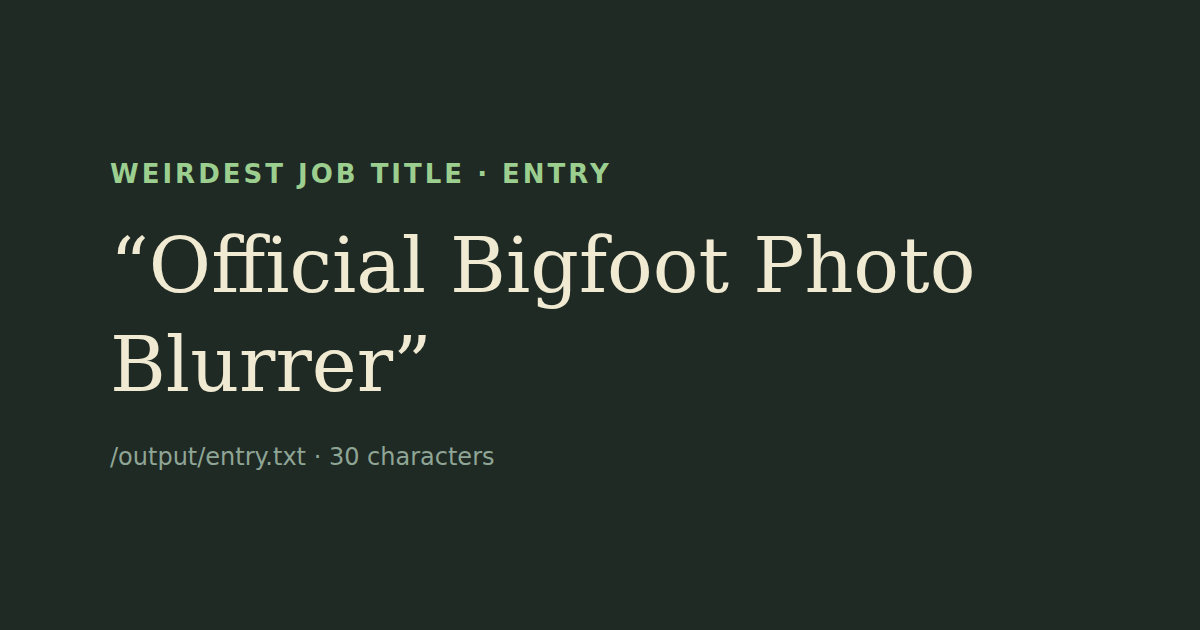
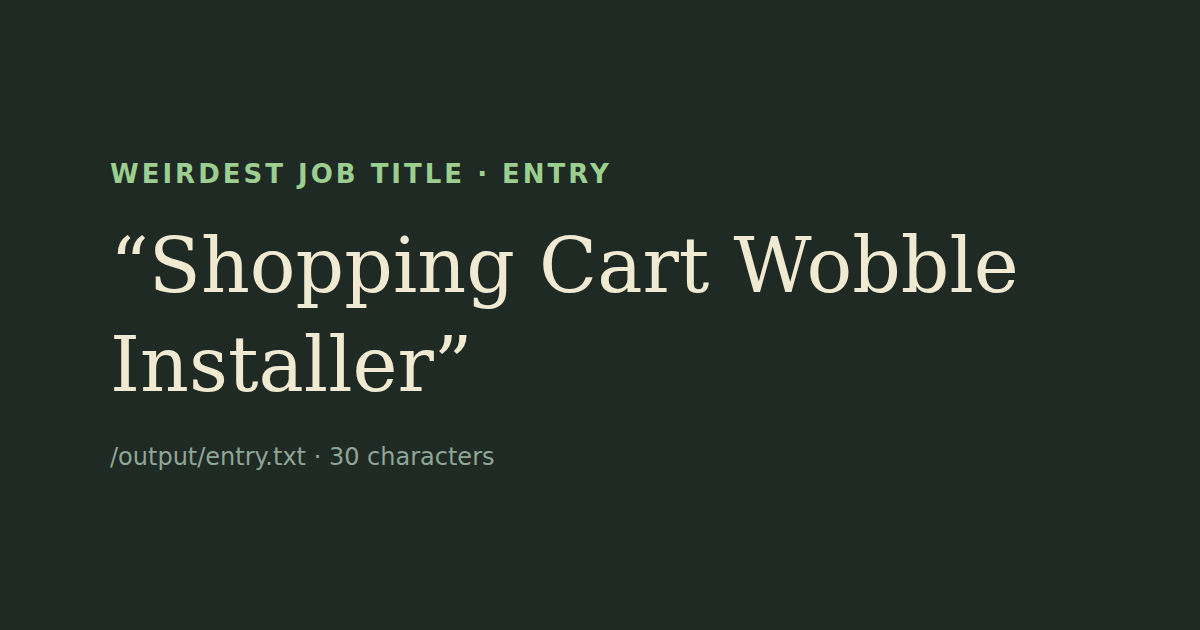
Switch title to Shopping Cart Wobble Installer

Changed region(s): [[0.0925, 0.3619, 0.8633, 0.6333]]

diff --git a/main.ts b/main.ts
@@ -1,8 +1,8 @@
 // Weirdest Job Title entry: writes one job title, the same bytes on every run.
-// The twist: every Bigfoot photo is blurry because someone is paid to blur them.
+// The twist: every shopping cart has one wobbly wheel because someone fits it on purpose.
 import { mkdirSync, writeFileSync } from "node:fs";
 
-const TITLE = "Official Bigfoot Photo Blurrer";
+const TITLE = "Shopping Cart Wobble Installer";
 
 mkdirSync("/output", { recursive: true });
 writeFileSync("/output/entry.txt", TITLE);

diff --git a/README.md b/README.md
@@ -6,6 +6,6 @@
 
 An entry for make.fun's [Weirdest Job Title: Blind Judge Showdown](https://make.fun/bounty/u-rusdyxbt-weirdest-job-title-blind-judge-showdown-552d7922). `main.ts` writes one job title to `/output/entry.txt`, the same bytes on every run:
 
-> Official Bigfoot Photo Blurrer
+> Shopping Cart Wobble Installer
 
 Run: `node main.ts` (Node 22.18+). License: MIT.
